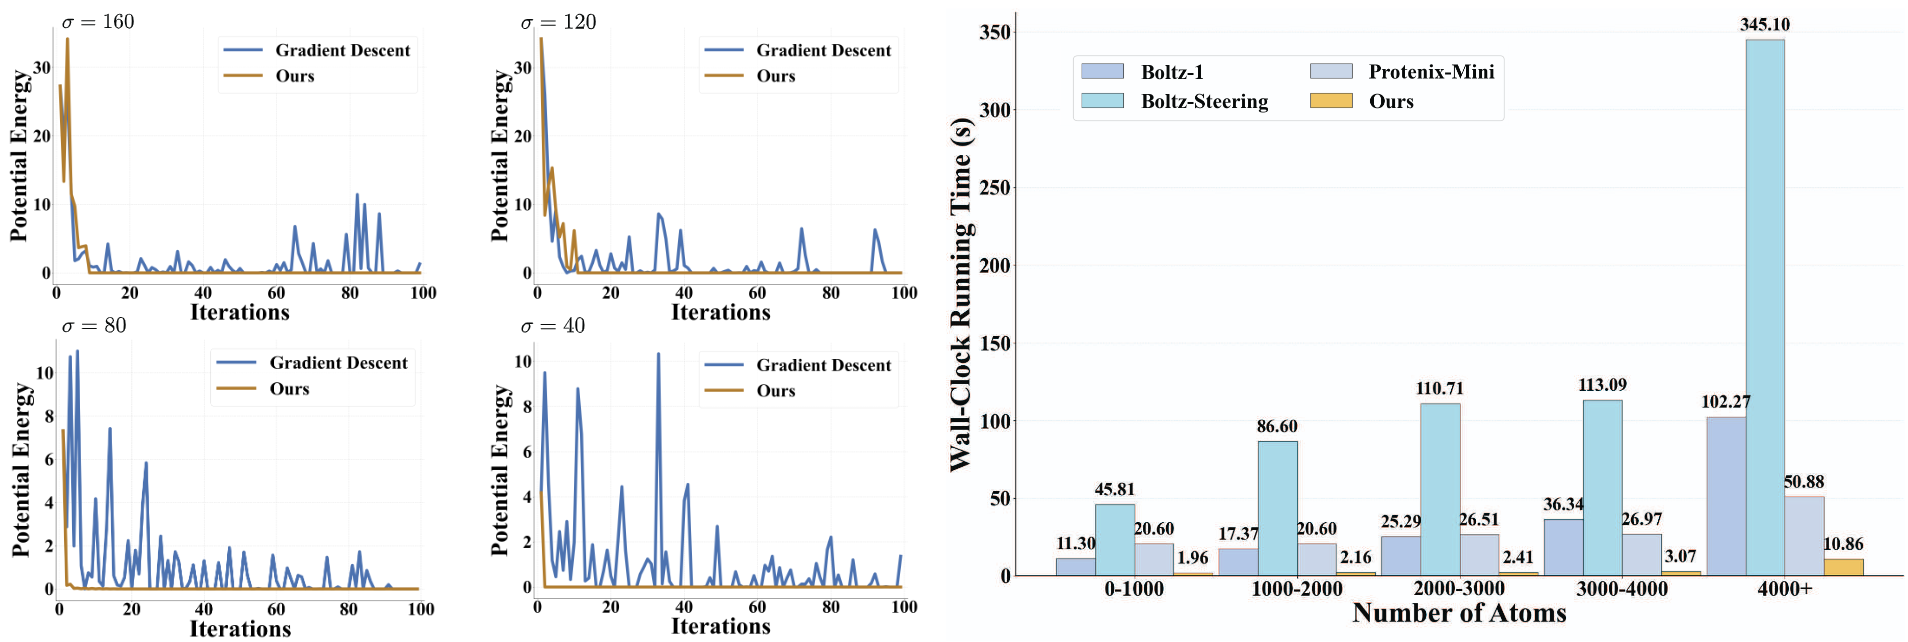
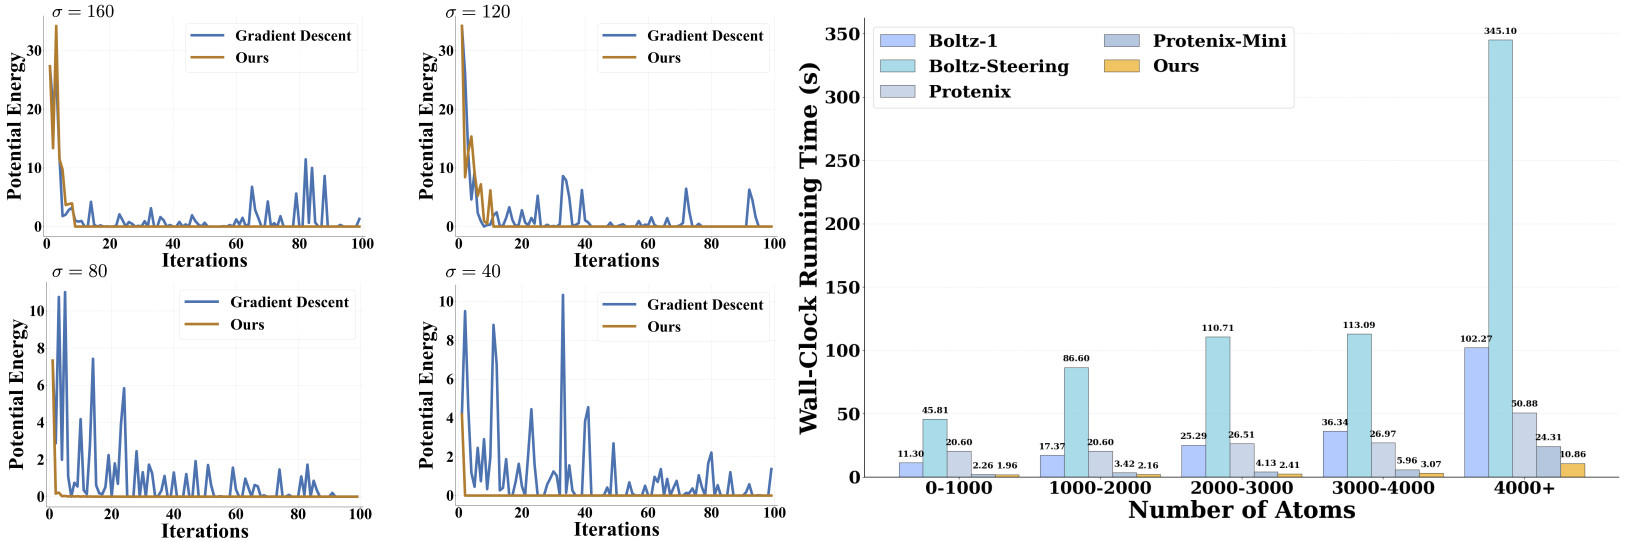
Update projection examples section

diff --git a/index.html b/index.html
@@ -334,15 +334,30 @@
     </div>
 
     <div class="content has-text-justified">
+      <h3 class="title is-4">Projection Examples</h3>
       <p>
-        <h3 class="title is-4">Cnvergence and Runtime</h3>
-        Convergence Speed: Gauss-Seidel quickly reduces potential, converging within 20 iterations; gradient descent oscillates and converges slowly (left).
-        Runtime: On CASP15, our method is &sim;9-10&times; faster than 200-step baselines and &sim;23-46&times; faster than Boltz-1-Steering.
+        We show representative local regions before and after Gauss-Seidel projection.
+        The projection resolves steric conflicts and improves physical plausibility while preserving the overall structure,
+        leading to low RMSD across diverse PDB examples.
+      </p>
+      <br>
+      <image src="./static/images/projection_example_1.png" width=90% style="display: block; margin: auto;"></image>
+      <br>
+    </div>
+
+    <div class="content has-text-justified">
+      <h3 class="title is-4">Convergence and Runtime</h3>
+      <p>
+        Gauss-Seidel projection rapidly decreases the constraint energy and typically converges within 20 iterations,
+        whereas gradient descent oscillates and converges more slowly (left).
+        On CASP15, our method is &sim;9-10&times; faster than 200-step baselines and &sim;23-46&times; faster than Boltz-1-Steering.
       </p>
       <br>
       <image src="./static/images/convergence_and_runtime.png" width=90% style="display: block; margin: auto;"></image>
       <br>
     </div>
+
+
 
     <!--/ Evaluation. -->
   
